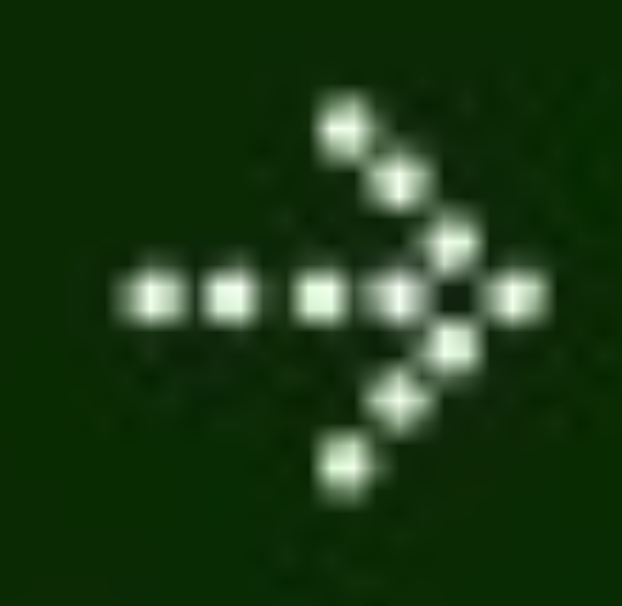
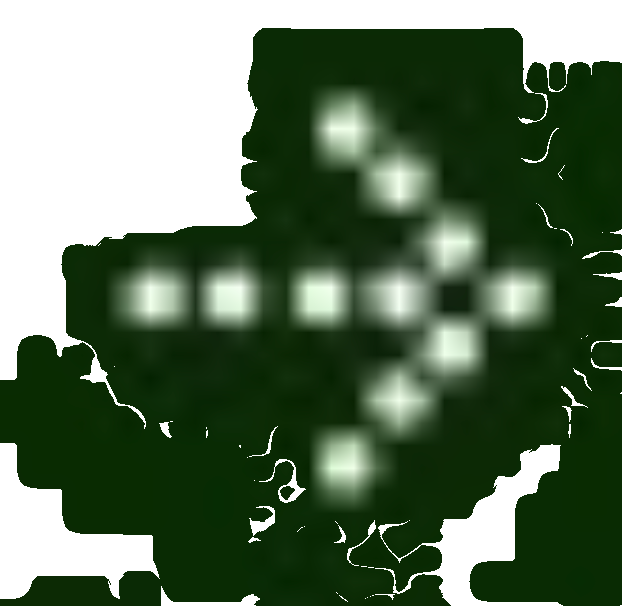
Ensure explore services button is explicitly #071F02 with transparent arrow and no border

diff --git a/src/styles/global.css b/src/styles/global.css
@@ -2874,6 +2874,8 @@ body { font-size: 16px; }
 .home-page .hero-actions .hero-explore-btn {
   min-width: 175px;
   padding: 0 18px 0 8px !important;
+  border-color: transparent !important;
+  background: #071F02 !important;
 }
 
 .home-page .hero-actions .hero-consult-btn .btn-icon,
